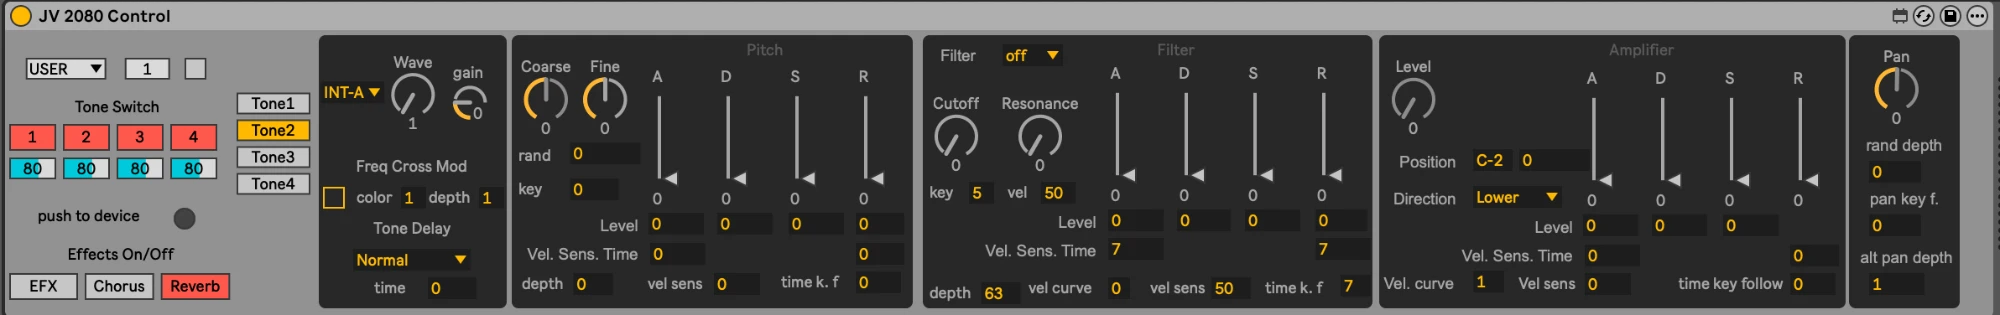
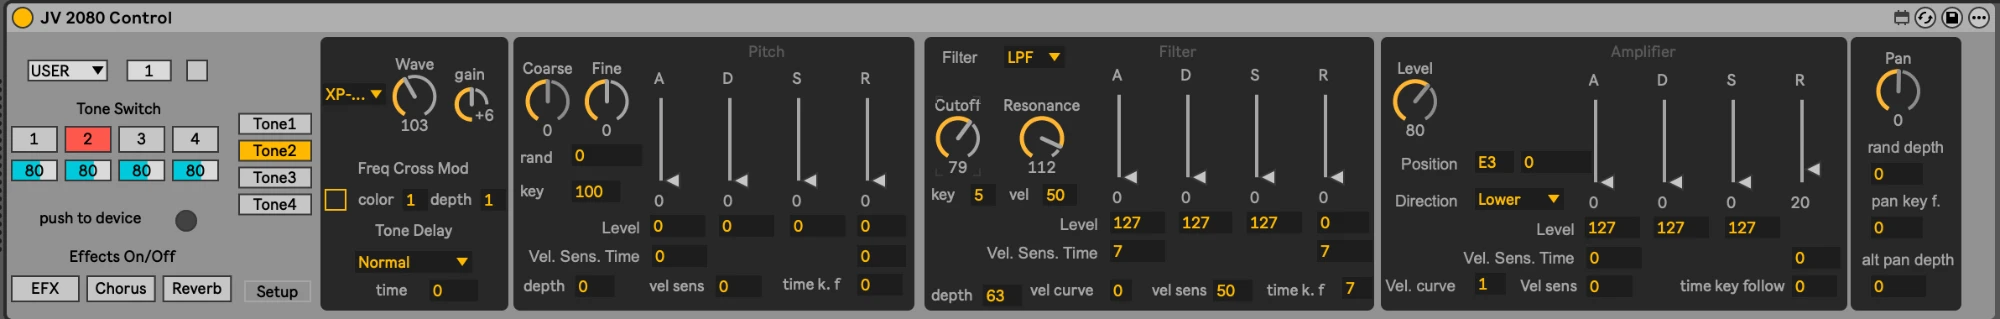
README: new screenshot; document Max search path setup (#26)

diff --git a/README.md b/README.md
@@ -46,8 +46,12 @@ sets keep working if you move a board to another slot. A patch that uses a board
 
 ## Development
 
-The source files are in `device/`: an unfrozen `.amxd` plus its `.maxpat` abstractions. Open the `.amxd` in Live,
-then edit it in Max. To see readable diffs of `.amxd` files, run:
+The source files are in `device/`: an unfrozen `.amxd`, its `.maxpat` abstractions and two `.js` scripts. Open the
+`.amxd` in Live, then edit it in Max.
+
+**One-time setup:** in Max, open **Options → File Preferences** and add this repo's `device` folder to the search path.
+Without it, a copy of the device, which Live sometimes opens when you click Edit, fails with
+`bpatcher: error loading patcher JV_*.maxpat`, and freezing can't bundle the abstractions and scripts. To see readable diffs of `.amxd` files, run:
 
     git config diff.amxd.textconv "python3 -I tools/amxd.py textconv"
 

diff --git a/CLAUDE.md b/CLAUDE.md
@@ -51,7 +51,7 @@ XP-50/80. These share model ID `0x6A`.
 
 ## Testing copies
 
-Only the device in `device/` finds its abstractions and scripts. A copy of the unfrozen `.amxd` elsewhere, such as the Live User Library, fails with "error loading patcher JV_*.maxpat". To use or share it elsewhere, freeze it first.
+Only the device in `device/` finds its abstractions and scripts. A copy of the unfrozen `.amxd` elsewhere, such as the Live User Library, fails with "error loading patcher JV_*.maxpat". To use or share it elsewhere, freeze it first. The maintainer has the repo's `device/` folder in Max's File Preferences search path, so copies opened by Live's Edit button and the freeze step can find the files.
 
 ## Releases
 
